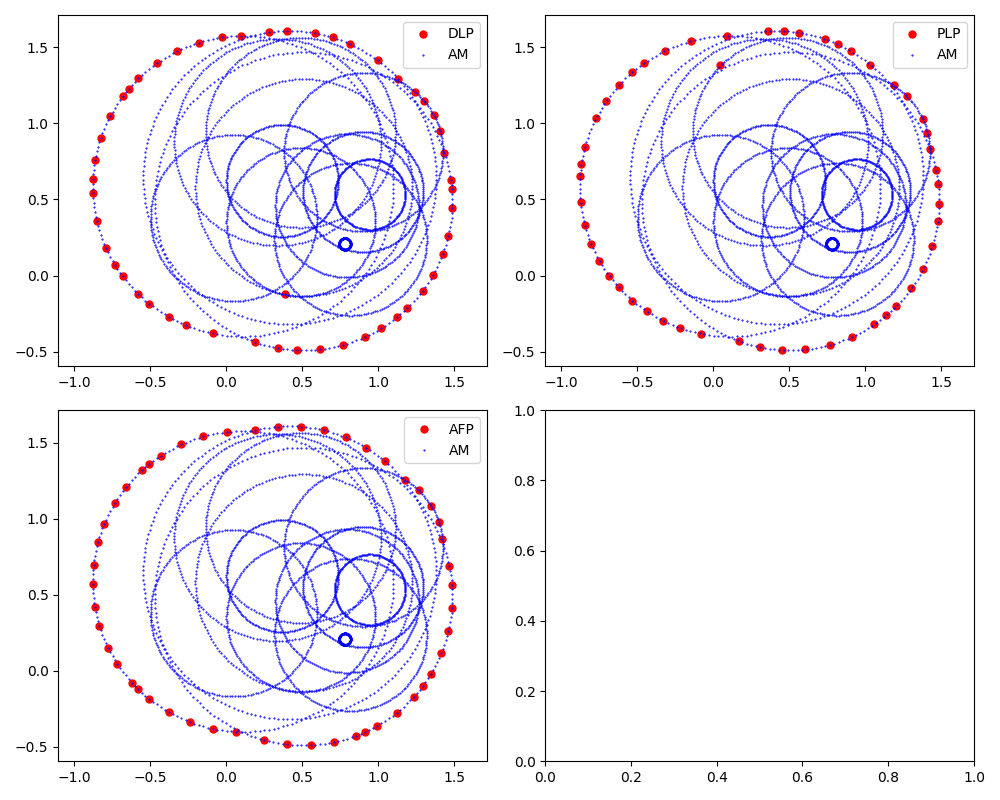
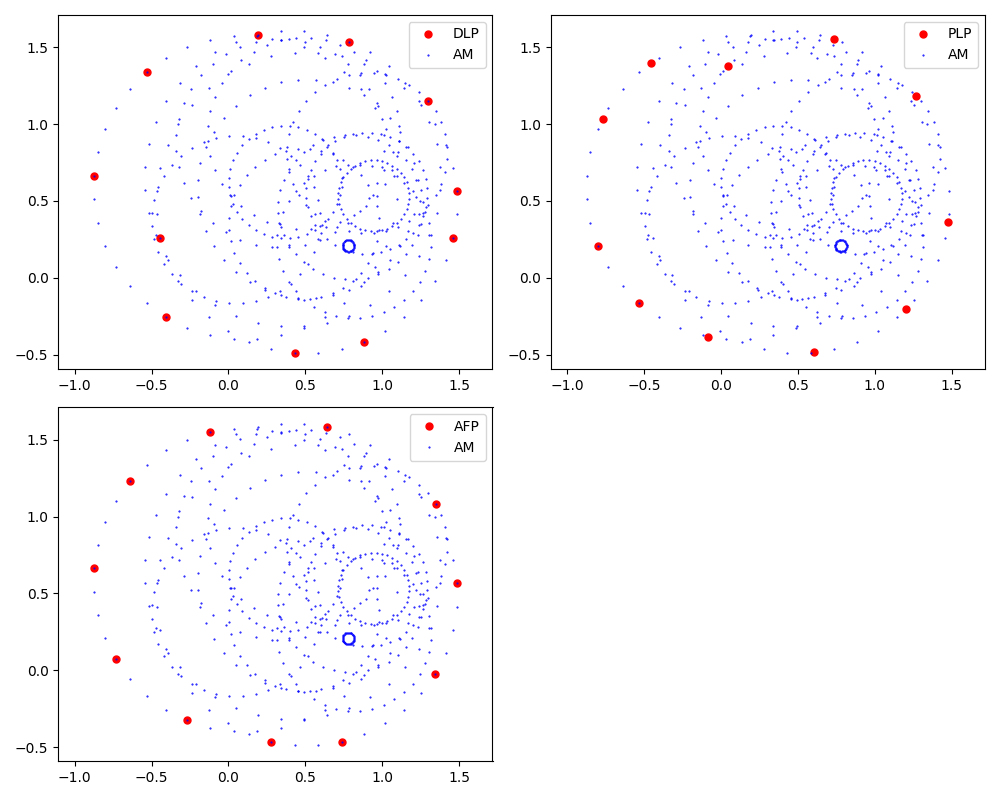
Updated demo_cpom

diff --git a/demo_cpom.py b/demo_cpom.py
@@ -2,7 +2,7 @@
 """
 Created on Sat Oct  7 13:25:41 2023
 
-Updated on May 30, 2024
+Updated on July 21, 2024
 
 @author: Dimitri Jordan Kenne
 
@@ -32,14 +32,12 @@ see the LICENSE file for details.
 from domains_structure.examples_of_domains import define_domain
 from polynomial_mesh_constructor.cpom import Cpom
 import matplotlib.pyplot as plt
+import os
 
 # ------------------------------------------------------------------------------
-
-
 def demo_cpom(deg, domain, adm_mesh_param=4, only_deg=True):
     '''
     This demo shows how to compute an admissible mesh 
-
 
     Parameters
     ----------
@@ -58,28 +56,29 @@ def demo_cpom(deg, domain, adm_mesh_param=4, only_deg=True):
     Returns
     -------
     None.
-
     '''
 
     # Compute the admissible mesh
     adm_mesh = Cpom(deg, domain, adm_mesh_param, only_deg=only_deg)
     print('\t The admissible mesh is\n', adm_mesh[0])
-
+    
+    # Create a directory for figures if it doesn't exist
+    if not os.path.exists('figures'):
+        os.makedirs('figures')
+    
     # Plot the admissible mesh
-    if only_deg == True:
-        plot_adm_mesh(adm_mesh[0], deg=deg)
+    if only_deg:
+        plot_adm_mesh(adm_mesh[0], deg=deg, save=True, 
+                      filename='figures/adm_mesh_deg_{}.png'.format(deg))
     else:
         for d, mesh in enumerate(adm_mesh[0]):
-            plt.figure()
-            plot_adm_mesh(mesh, deg=d+1, display=True, display_block=False)
+            plot_adm_mesh(mesh, deg=d+1, save=True, 
+                          filename='figures/adm_mesh_deg_{}.png'.format(d+1),
+                          display_block=False)
         plt.show()
-
-    # Display the result
     
-    if only_deg == True:
-        card_adm_mesh = len(adm_mesh[0])
-    else:
-       card_adm_mesh = len(adm_mesh[0][-1])
+    # Display the result
+    card_adm_mesh = len(adm_mesh[0]) if only_deg else len(adm_mesh[0][-1])
     statistics = {
         'domain': domain.name,
         'degree': deg,
@@ -93,8 +92,7 @@ def demo_cpom(deg, domain, adm_mesh_param=4, only_deg=True):
         print(f"{key:<20} {value:<40}")
     print("="*60)
 
-
-def plot_adm_mesh(pts, deg=None, display=True, display_block = True):
+def plot_adm_mesh(pts, deg=None, save=False, filename=None, display=True, display_block=True):
     '''
     Plot the complex points inside pts
 
@@ -102,29 +100,35 @@ def plot_adm_mesh(pts, deg=None, display=True, display_block = True):
     ----------
     pts : array
         The set of points to plot.
-    display : bool, optional
-        Specify whether to plt.show() or not. The default is True.
+    save : bool, optional
+        Specify whether to save the plot. The default is False.
+    filename : str, optional
+        The filename to save the plot as. Required if save is True.
 
     Returns
     -------
     None.
-
     '''
     X = [x.real for x in pts]
     Y = [x.imag for x in pts]
+    plt.figure()
     plt.plot(X, Y, 'bo', label='AM', markersize=1)
-    if display == True:
-        if deg is not None:
-            plt.title(f'AM of degree {deg}')
-        plt.legend()
-        plt.axis('equal')
+    if deg is not None:
+        plt.title(f'AM of degree {deg}')
+    plt.legend()
+    plt.axis('equal')
+    
+    if save:
+        if filename is None:
+            raise ValueError("Filename must be specified if save is True.")
+        plt.savefig(filename)
+    
+    if display:    
         plt.show(block=display_block)
 
 # -----------------------------------------------------------------------------
-
-
 # Set the degree of approximation
-deg = 10
+deg = 3
 
 # To select a prebuilt domain, choose a number from 0 to 31 and input it into
 # the define_domain function.

diff --git a/demo_cdes.py b/demo_cdes.py
@@ -2,7 +2,7 @@
 """
 Created on Sat Dec 31 17:49:32 2022
 
-Updated on May 30, 2024
+Updated on July 21, 2024
 
 @author: Dimitri Jordan Kenne
 -------
@@ -82,7 +82,7 @@ def demo_cdes(deg, domain, pts_type=np.array(['DLP', 'PLP', 'AFP']),
 
 
 # Set the degree of approximation
-deg = 50
+deg = 10
 
 # To select a prebuilt domain, choose a number from 0 to 31 and input it into
 # the define_domain function.

diff --git a/README.md b/README.md
@@ -236,7 +236,7 @@ Remark: All figures are save in the folder figures
 
 
 ### 2. demo_cleb
-In order to run this demo, open the file demo_cleb.py from the package lebesgue_constant_evaluator, provide the degree, choose the domain and then run the file.
+In order to run this demo, open the file `demo_cleb.py` from the package lebesgue_constant_evaluator, provide the degree, choose the domain and then run the file.
 
 The following tasks will be performed:  
 
@@ -247,12 +247,12 @@ The following tasks will be performed:
     • compute a certified Lebesgue constant.
 
 ### 3. demo_cpom
-In order to run this demo, open the file demo_cpom.py from the folder polynomial_mesh_constructor, provide the degree, choose the domain and then run the file.
+In order to run this demo, open the file `demo_cpom.py` from the folder polynomial_mesh_constructor, provide the degree, choose the domain and then run the file.
 
-The admissible mesh of degree deg will be computed and the points will be shown on a figure.
+The admissible mesh of degree `deg` will be computed and the points will be shown on a figure.
 
 ### 4. demo_cdes
-In order to run this demo, open the file demo_cdes.py from the folder discrete_extremal_sets_constructor, provide the degree, choose the domain and then run the file.
+In order to run this demo, open the file `demo_cdes.py` from the folder discrete_extremal_sets_constructor, provide the degree, choose the domain and then run the file.
 
 The following tasks will be performed:
 
@@ -263,7 +263,7 @@ The following tasks will be performed:
     • plot the extremal points on separate figures
 
 ### 5. demo_cfit
-In order to run this demo, open the file demo_cfit.py from the folder polynomial_projectors, define a function for approximation, provide the degree, choose the domain and then run the file.
+In order to run this demo, open the file `demo_cfit.py` from the folder polynomial_projectors, define a function for approximation, provide the degree, choose the domain and then run the file.
 
 The following tasks will be performed for each degree $d = 1, \dots, \text{deg}$:
 
